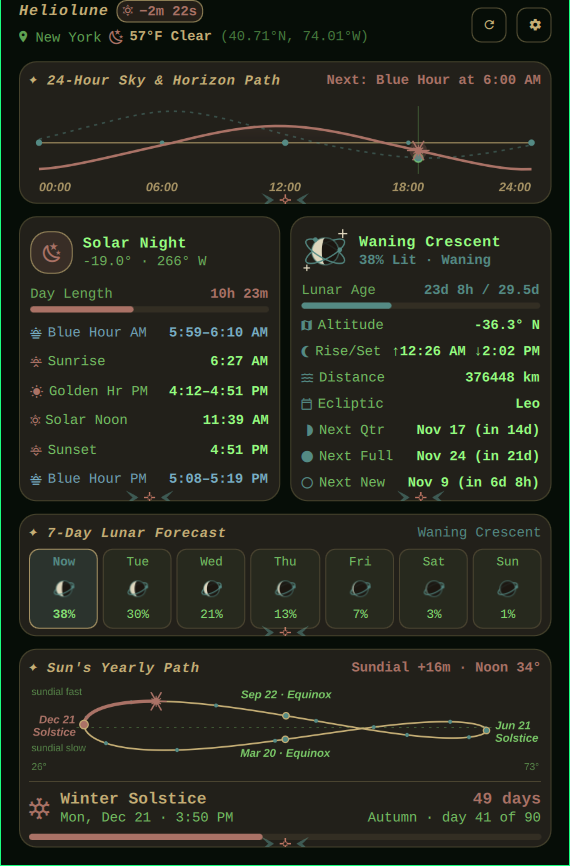
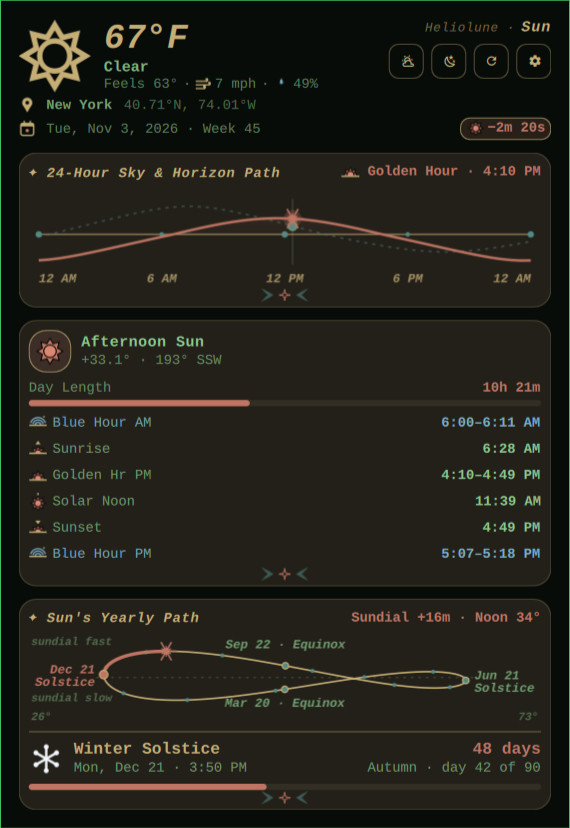
Version 2.2.0: new screenshots and README for the updated widget
- Screenshots retaken (New York as the example location): bar in every theme,
  Sun view per theme, Moon, Forecast, Map and Settings; preview card updated;
  cropped to the widget only
- README: the bar capsule with weather, the Moon/Forecast/Map views, foldable
  settings, the strings test; manifest description covers the forecast, map,
  city search and sky reminders

diff --git a/README.md b/README.md
@@ -27,7 +27,7 @@ There are good moon widgets and good sunrise widgets for Omarchy. Heliolune is o
 
 ### On the bar
 
-The Sun and Moon share one themed capsule (here with values: Atomic, Art Deco and Art Nouveau, Soft and Bold):
+The Sun, the Moon and the weather share one themed capsule (here with values; Atomic, Art Deco and Art Nouveau from top to bottom, Soft on the left and Bold on the right):
 
 ![The bar capsule in each theme](docs/screenshots/bar.png)
 
@@ -45,17 +45,21 @@ With weather on, the capsule also shows the current conditions as a small line-d
 
 ### In the popup
 
-![The Heliolune popup in the default Atomic theme](docs/screenshots/popup.png)
+![The Sun view in the default Atomic theme](docs/screenshots/popup.png)
 
 Each item on the bar opens its own view; the header buttons and **W** / **M** switch between them.
 
-- **Header (every view):** the **current weather**: a large drawn icon for the conditions, the temperature, the sky, and feels-like, wind and humidity (optional, see [Privacy](#privacy--network)). Below it, your city and coordinates, the **date and week number** (e.g. `Mon, Nov 2, 2026 · Week 45`), and the daylight gained or lost since yesterday. During severe weather an alert banner sits under it.
+- **Header (every view):** the **current weather**: a large line-drawn icon for the conditions, the temperature, the sky, and feels-like, wind and humidity (optional, see [Privacy](#privacy--network)). Below it, your city and coordinates, the **date and week number** (e.g. `Mon, Nov 2, 2026 · Week 45`), and the daylight gained or lost since yesterday. During severe weather an alert banner sits under it.
 - **Sun** (click the sun, or anywhere else on the capsule):
   - **24-hour sky path:** the Sun's and Moon's altitude through the day against your horizon, and where they are right now.
   - **The Sun:** sky phase (from astronomical night through blue hour, golden hour and solar noon), altitude and compass bearing, day length, and the day's timetable: blue hour, sunrise, golden hour, solar noon, sunset, blue hour.
   - **The Sun's yearly path:** the analemma, then the countdown to the next equinox or solstice with the current season's progress (*Autumn · day 41 of 90*). Hemisphere-aware: in Sydney, June brings the Winter Solstice.
 - **Moon** (click the moon): opens on **Cycle**: the current lunation from the last new Moon to the next, with today's Moon large and marked on a track with the quarters and the full Moon. Press play for a **time lapse** through the cycle, or switch to **Sky** to watch the Moon (and the Sun) cross a compass horizon over the next 24 hours; scrub, pause, or jump back to **Now**. Below it, the Moon card: phase, illumination, age, moonrise and moonset, altitude, distance, ecliptic sign, the next quarter, full and new Moon. Then **Today** (when the Moon is up in a dark sky, hour by hour, with the weather's clouds taken into account), **7 Days** (a row per day: phase, moonrise, illumination) and **30 Days** (a month of Moons with the new, quarter and full Moons marked).
 - **Weather** (click the weather): **Today** (the next 24 hours, every three hours, with chance of rain), **3 Days** (conditions, high and low, rain chance, wind per day) **7 Days** (one row per day with the week's temperature range) or **Map** (a 5 × 5 grid of forecast points around you, out to 20, 60 or 100 miles (30, 100 or 160 km in metric), showing **Temp**, **Rain** (real radar for the past two hours from RainViewer, then the forecast as a radar-style picture, with bars on the timeline showing when rain comes) or **Wind** (streaks flowing the way the wind blows, brighter where it is stronger; they also drift faintly over the rain); drag the hour bar or press play to watch the next 24 hours move across the area, and hover a square for its distance, direction and conditions). The squares sit on an OpenStreetMap map of the area (towns, roads, rivers), muted to suit the theme; north is up and the middle square is your location.
+
+| Moon | Forecast | Map |
+|---|---|---|
+| ![The Moon view: this cycle with a time lapse, and the Moon card](docs/screenshots/moon.png) | ![The 7-day forecast](docs/screenshots/forecast.png) | ![The area map: forecast points over OpenStreetMap, with a 24-hour timeline](docs/screenshots/map.png) |
 
 Any card can be hidden in settings, under **View Cards**.
 
@@ -89,9 +93,9 @@ Right-click the widget and pick a **Style**: the choice restyles the whole widge
 - **Bold:** full-saturation color, heavy rules and deep jewel-toned cards.
 - **Theme:** keeps the theme's shapes but takes its colors from your Omarchy theme.
 
-| Atomic: Soft / Bold | Art Deco: Soft / Bold | Art Nouveau: Soft / Bold |
+| Atomic | Art Deco | Art Nouveau |
 |---|---|---|
-| ![Atomic, Soft and Bold](docs/screenshots/theme-atomic.png) | ![Art Deco, Soft and Bold](docs/screenshots/theme-deco.png) | ![Art Nouveau, Soft and Bold](docs/screenshots/theme-nouveau.png) |
+| ![The Sun view in Atomic](docs/screenshots/theme-atomic.png) | ![The Sun view in Art Deco](docs/screenshots/theme-deco.png) | ![The Sun view in Art Nouveau](docs/screenshots/theme-nouveau.png) |
 
 On light themes, every color is checked against the actual bar and popup background and darkened until it meets WCAG contrast (4.5:1 for text), so nothing washes out.
 
@@ -153,7 +157,11 @@ omarchy-shell makehasteslowly.heliolune moon       # open the Moon view
 
 ## Settings
 
-Everything is in the right-click panel. The same keys can be set on the widget's entry in `~/.config/omarchy/shell.json`:
+Everything is in the right-click panel, in foldable sections: **Location** (search for a city), **Appearance**, **Bar**, **Weather**, **View Cards**, **Calendar**, **Sky Reminders** and **Advanced**. Click a section's heading to fold or unfold it.
+
+<p align="center"><img src="docs/screenshots/settings.png" alt="The settings panel in Art Deco" width="380"></p>
+
+The same keys can be set on the widget's entry in `~/.config/omarchy/shell.json`:
 
 | Key | Values | Default |
 |---|---|---|
@@ -222,7 +230,8 @@ USNO publishes times to the minute; errors are measured after allowing for that 
 ```bash
 node tests/accuracy.mjs            # summary; exits non-zero on any regression
 node tests/accuracy.mjs --verbose  # every comparison
-node tests/calendar.mjs            # ISO week numbers, incl. New Year edge cases
+node tests/calendar.mjs            # week numbers, options, weather, map, city search, reminders
+node tests/strings.mjs             # every string the code names exists in i18n/en.json
 python3 -I tests/fetch-usno.py     # refresh the reference data (public test cities only)
 ```
 
